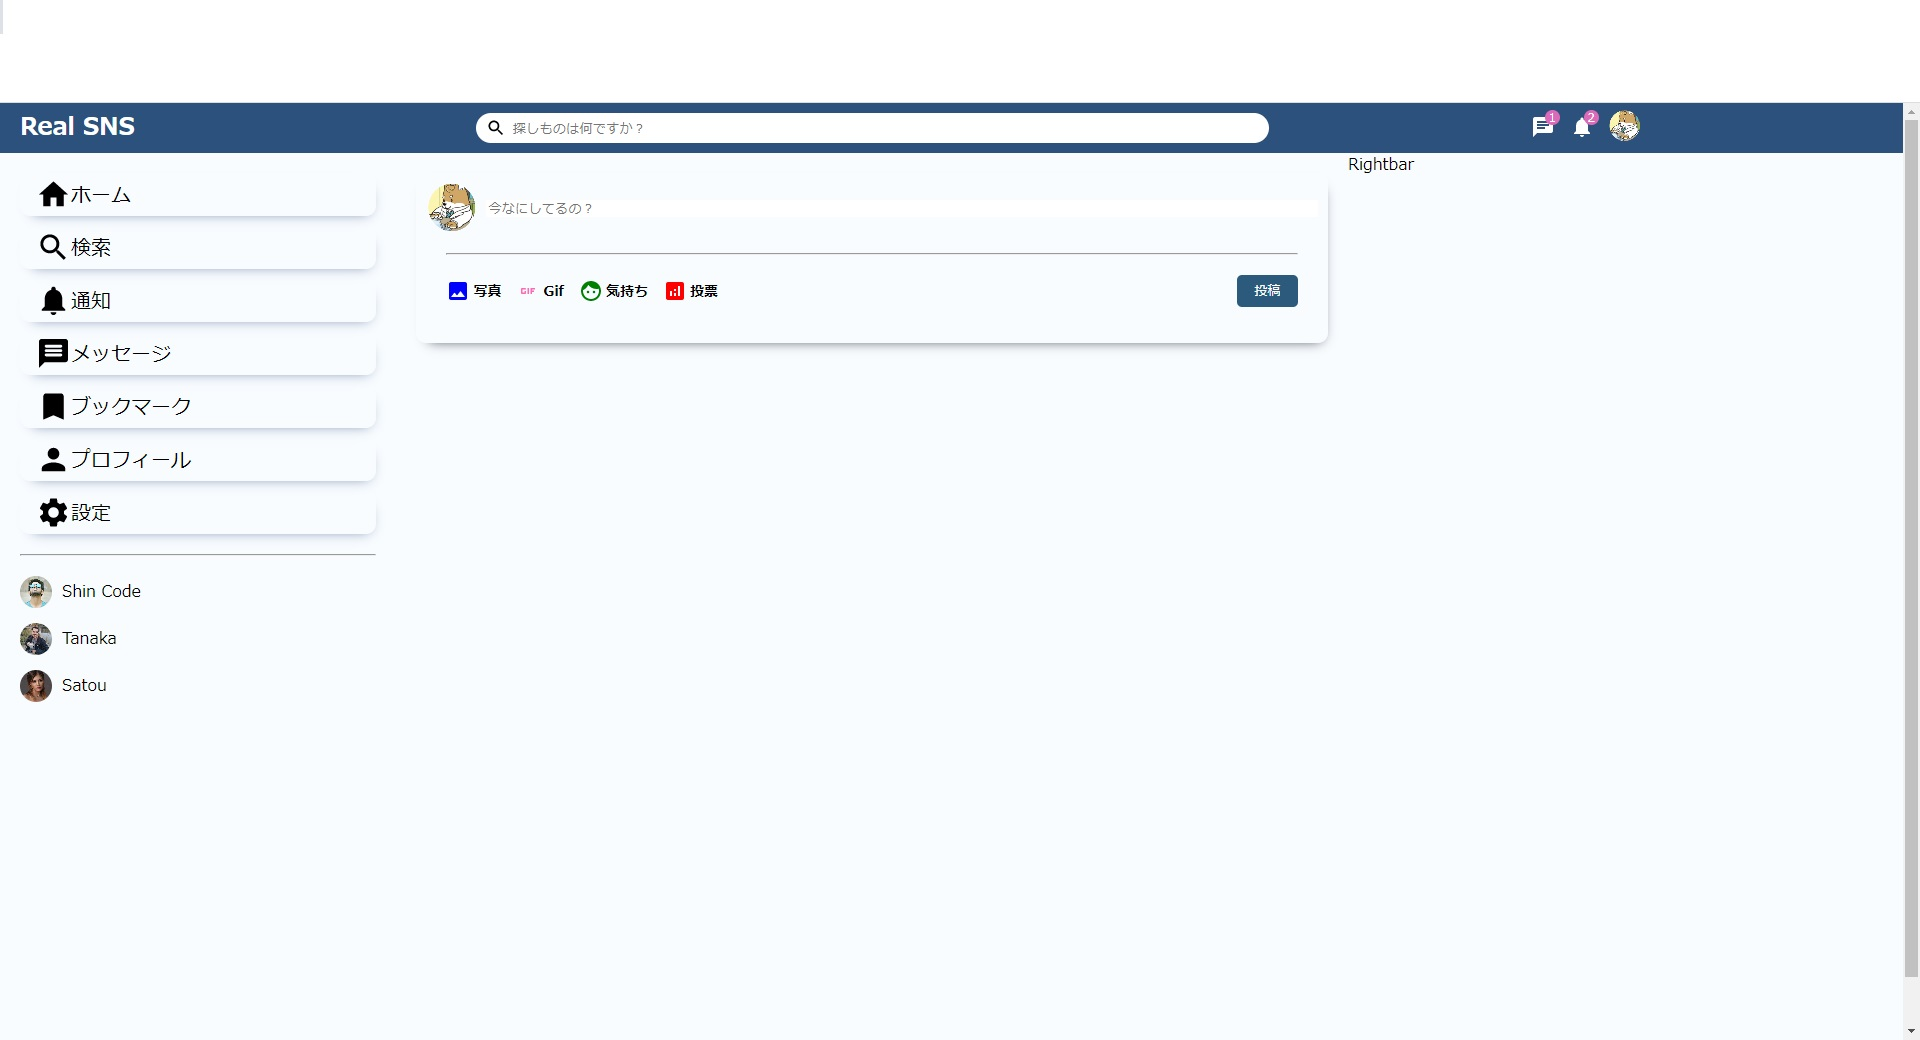
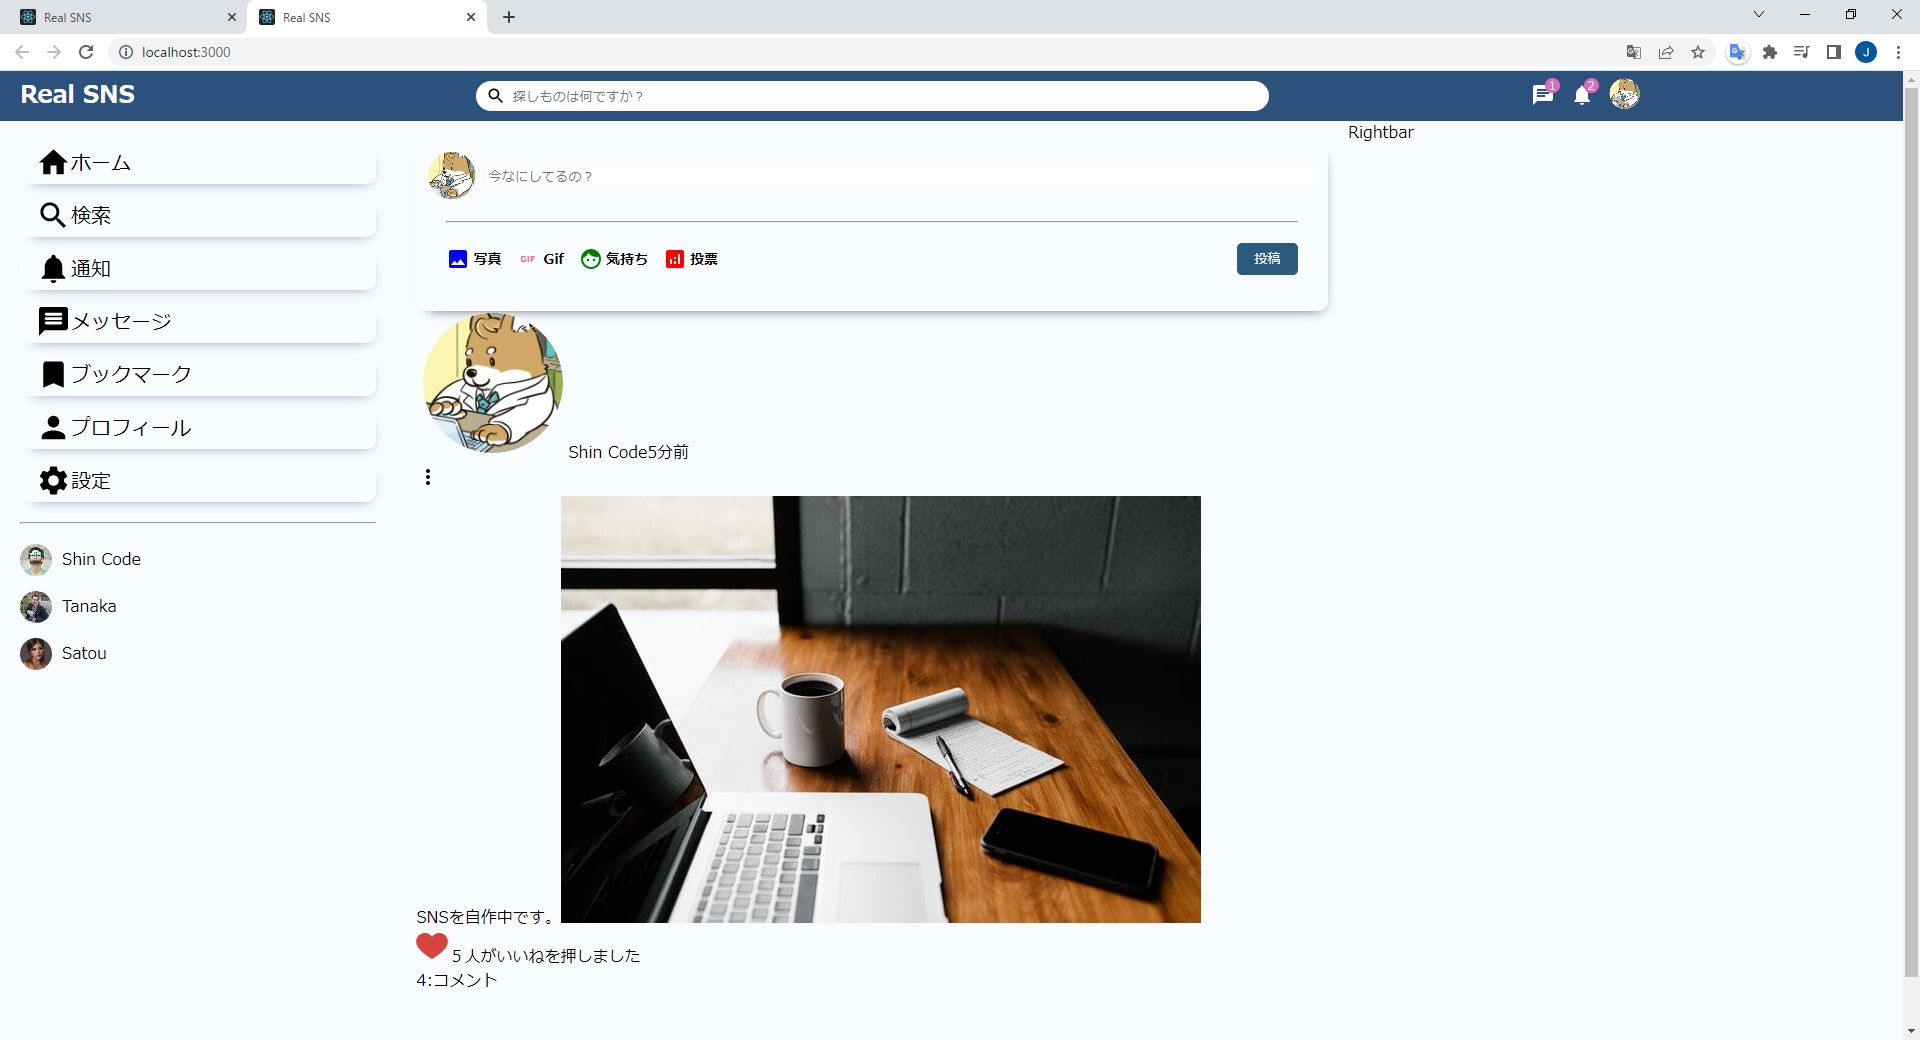
L52.Postコンポーネット　追加

Changed region(s): [[0.0, 0.0, 1.0, 0.6769], [0.2188, 0.4308, 0.625, 0.9538]]

diff --git a/src/components/post/Post.jsx b/src/components/post/Post.jsx
@@ -1,0 +1,33 @@
+import { MoreVert } from '@mui/icons-material';
+import React from 'react'
+import "./Post.css";
+
+export default function Post() {
+  return (
+    <div className="post">
+        <div className="postWrapper">
+            <div className="postTop">
+                <img src="./assets/person/1.jpeg" alt="" className="postProfileImg" />
+                <span className="postUsername">Shin Code</span>
+                <span className="postDate">5分前</span>
+            </div>
+            <div className="postRight">
+                <MoreVert />
+            </div>
+            <div className="postCenter">
+                <span className="postText">SNSを自作中です。</span>
+                <img src="./assets/post/1.jpeg" alt="" className="postImg"/>
+            </div>
+            <div className="postBottom">
+                <div className="postBottomLeft">
+                    <img src="./assets/heart.png" alt="" className="likeIcon" />
+                    <span className="postLikeCounter">５人がいいねを押しました</span>
+                </div>
+                <div className="postBottomRight">
+                    <span className="postCommentText">4:コメント</span>
+                </div>
+            </div>
+        </div>
+    </div>
+  );
+}

diff --git a/src/components/timeline/TimeLine.jsx b/src/components/timeline/TimeLine.jsx
@@ -1,5 +1,6 @@
 import React from 'react';
 import Share from '../share/Share';
+import Post from '../post/Post';
 import "./TimeLine.css";
 
 export default function TimeLine() {
@@ -7,7 +8,7 @@ export default function TimeLine() {
     <div className="timeline">
       <div className="timelineWrapper">
         <Share />
-        {/* <Post /> */}
+        <Post />
       </div>
     </div>
   );
